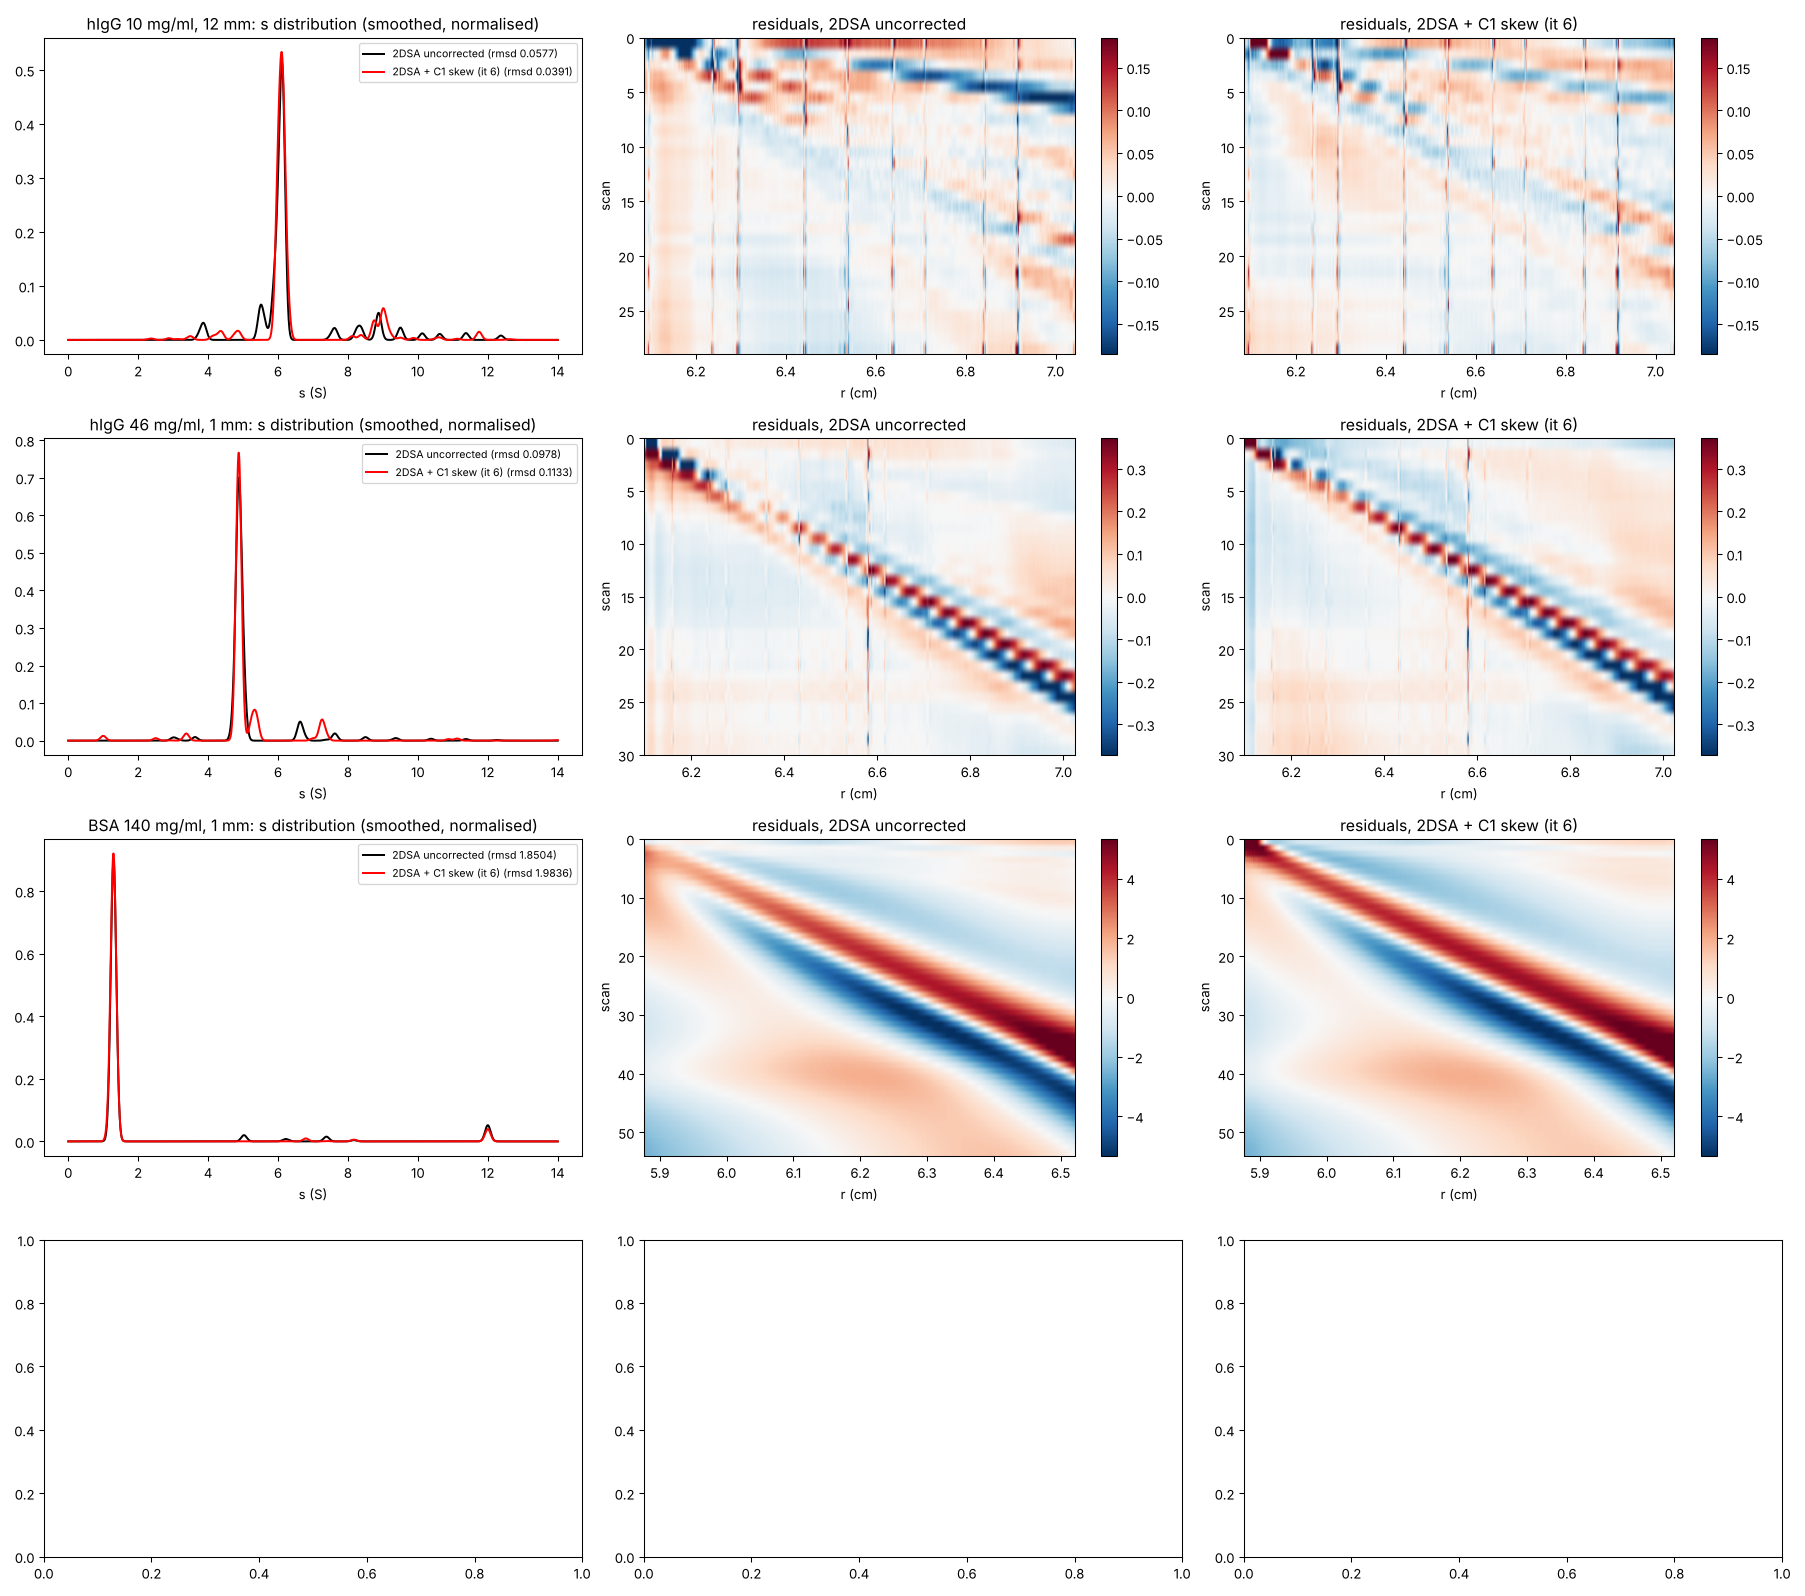
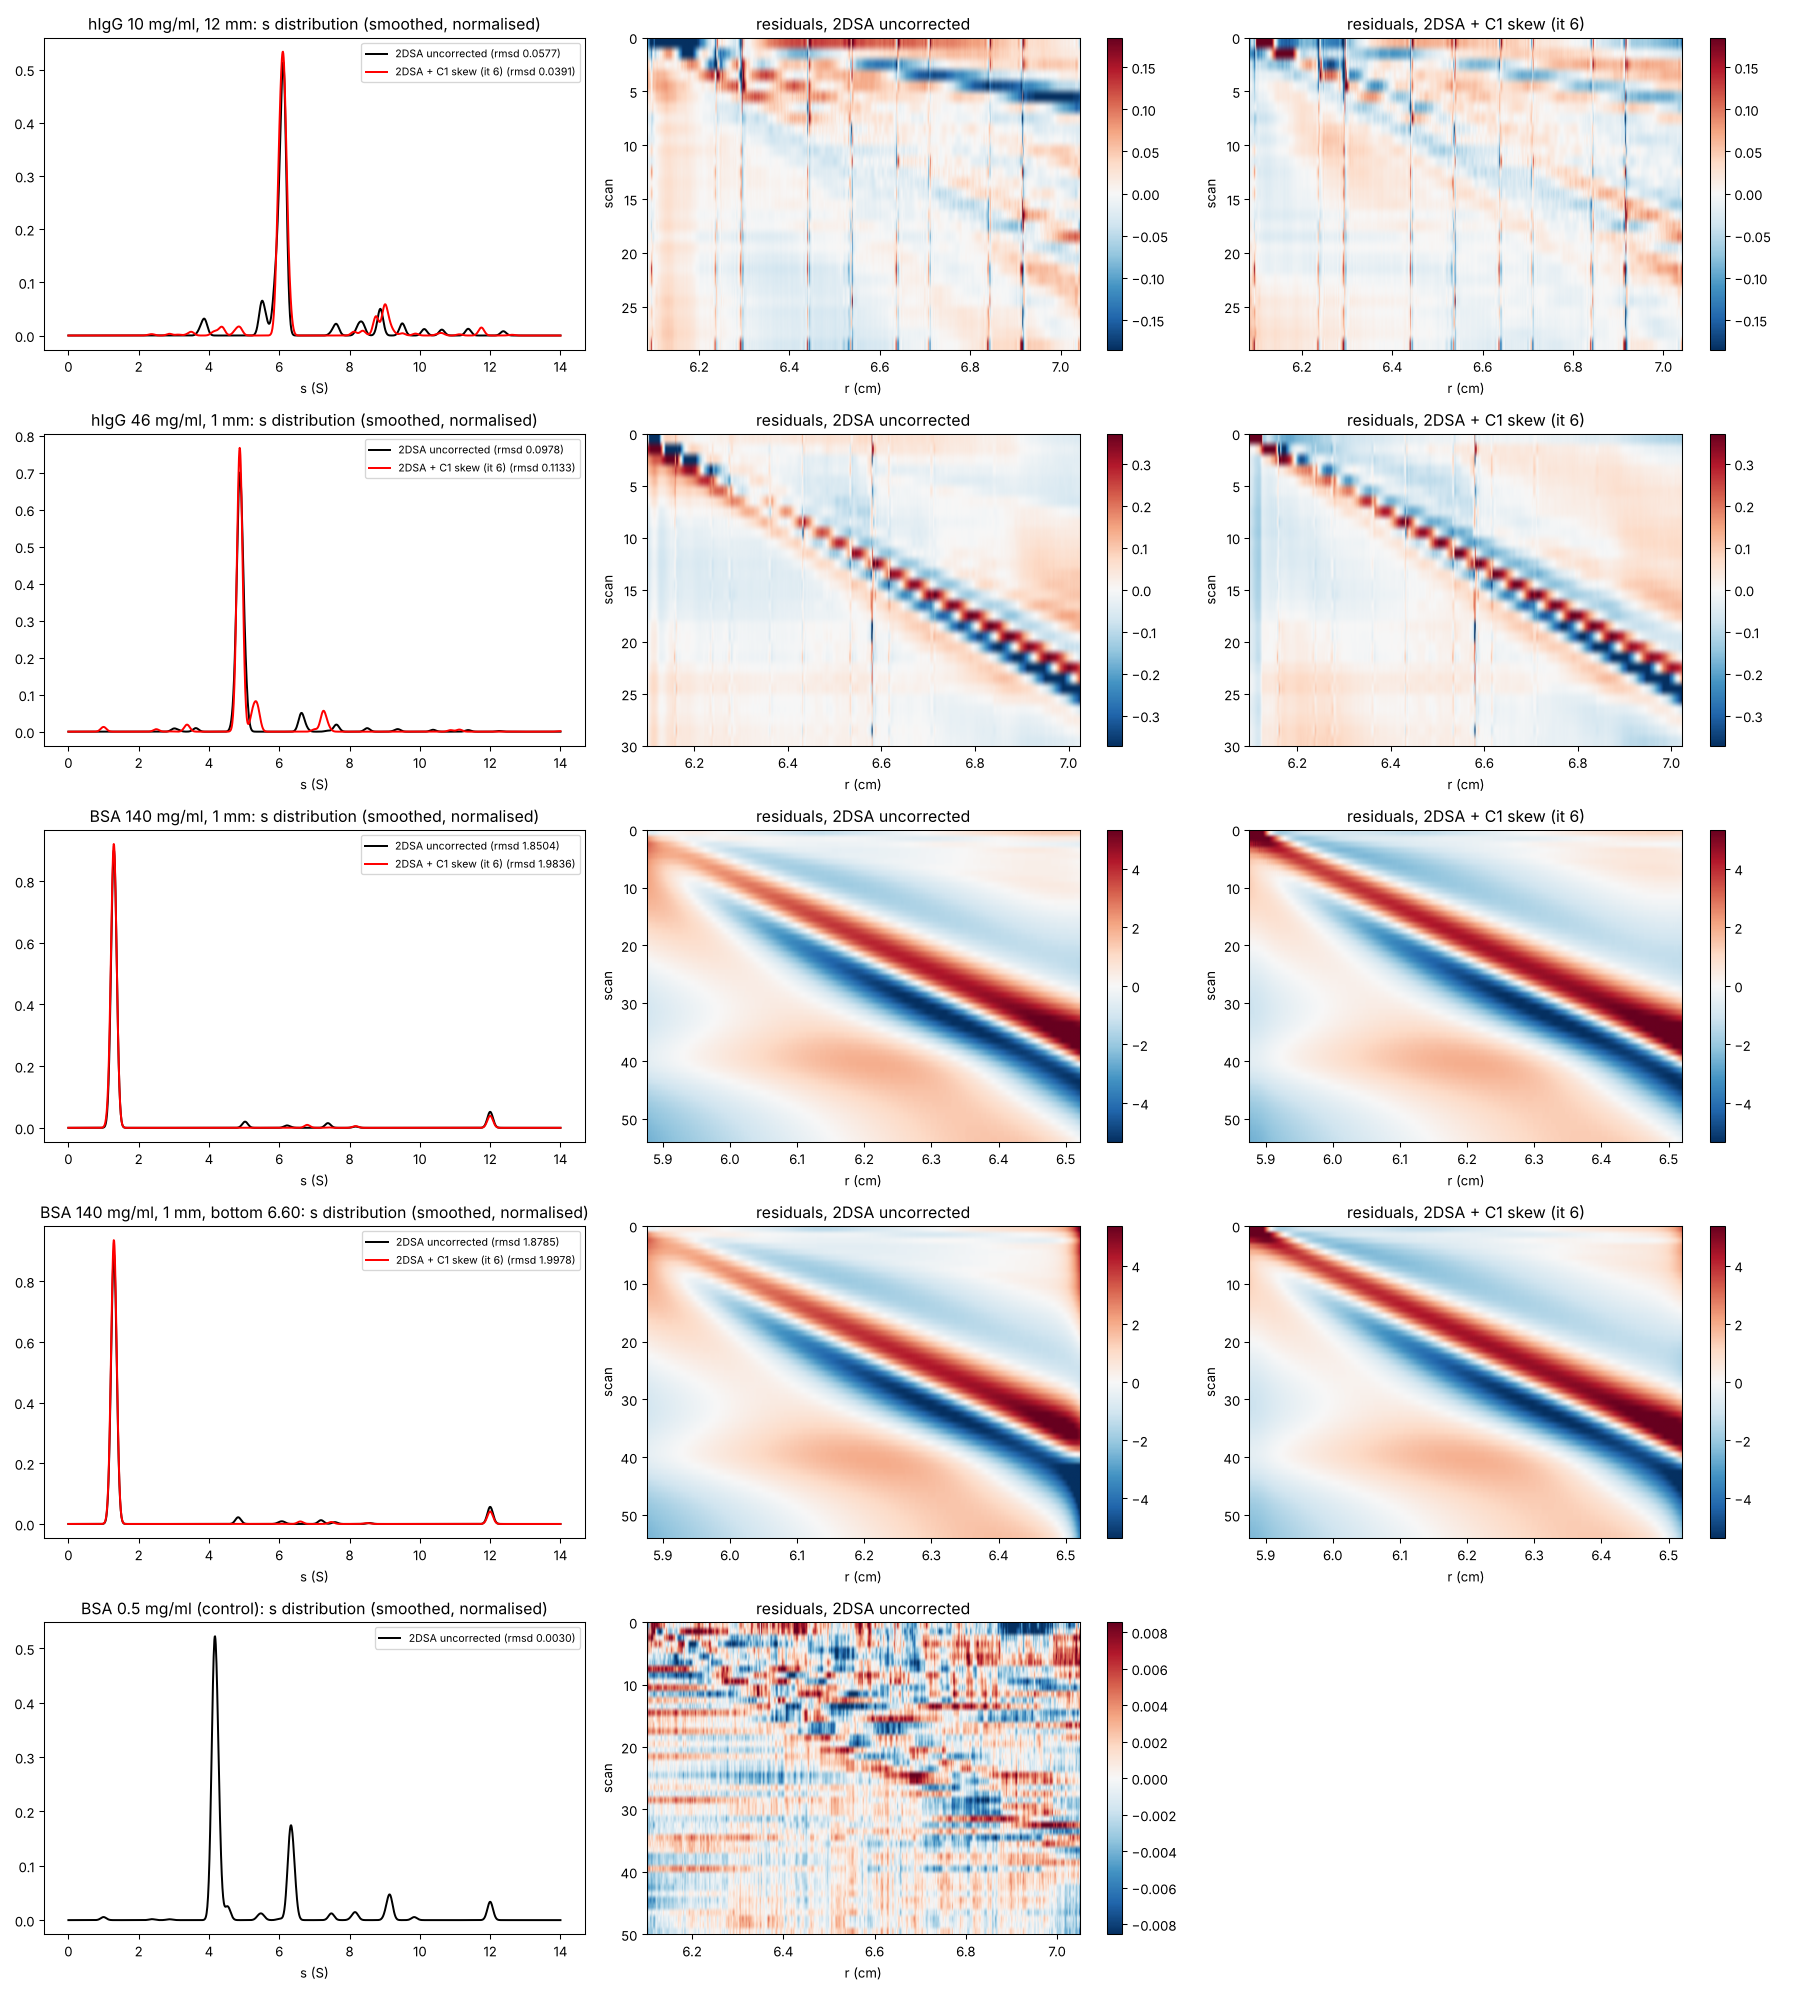
Wiener skew study: paper-data comparison results and README section
Claude-Session: https://claude.ai/code/session_01MvSEDQp35nfkxgdGyo4zjw

diff --git a/wiener_study/src/analyze_real.py b/wiener_study/src/analyze_real.py
@@ -16,6 +16,8 @@ SETS = {
                       paper="c_HS(s0): monomer 6.73 S, 71.1 %; dimer 9.4 S, 16.5 %"),
     "BSA140_1mm": dict(win=[("monomer", 2.5, 5.2), ("dimer", 5.2, 7.6)], title="BSA 140 mg/ml, 1 mm",
                        paper="c_HS(s0): monomer 3.9 S; dimer 22 %; rmsd 0.175 fringe (k_S,red 0.66)"),
+    "BSA140_1mm_b660": dict(win=[("monomer", 2.5, 5.2), ("dimer", 5.2, 7.6)], title="BSA 140 mg/ml, 1 mm, bottom 6.60",
+                       paper="c_HS(s0): monomer 3.9 S; dimer 22 %; rmsd 0.175 fringe (k_S,red 0.66)"),
     "BSA05_dilute": dict(win=[("monomer", 2.5, 5.2), ("dimer", 5.2, 7.6)], title="BSA 0.5 mg/ml (control)",
                          paper="c(s): monomer 4.2 S; dimer 19 %; f/f0 1.43"),
 }

diff --git a/wiener_study/README.md b/wiener_study/README.md
@@ -54,3 +54,28 @@ Paper cases (Chaturvedi & Schuck, Chem. Methods 2024) simulated ideally (no conc
 - The BSA remainder of 0.028 fringe sits only in scan 1 at r < 5.95 cm, where the map folds over at the meniscus. Excluding that region gives 0.0027 fringe, equal to the no-skew fit.
 - Mean-subtracting TI noise (which is skewed in the data) adds only about 0.001 fringe; an explicit fit of skewed TI noise is not needed here.
 - Remaining limitations: κ′ was known exactly, skew was simulated without concentration dependence, and the map's fold-over region is not modelled (exclude it, or the first scan, instead).
+
+## Paper data (Chaturvedi & Schuck 2024, Harvard Dataverse) — `paper_data/`
+
+**Check of the skew operator against SEDFIT.** We applied our skew operator (κ′ = 2.69e-5 cm²/fringe) to SEDFIT's unskewed Fig. 3 simulation (`hinderedsingle`) and compared the result with SEDFIT's skewed version (`skewed`). They agree to 0.0029 fringe RMS, against a total skew effect of 0.47 fringe RMS. The largest local difference is 0.18 fringe, in scan 1 at the meniscus. So the two implementations use the same skew model.
+
+**Real data, UltraScan-type ideal 2DSA, without and with C1 correction (κ′ from paper Table 1).**
+- Settings: meniscus and fit range from the SEDFIT fit files; TI+RI noise fitted; data interpolated onto a 0.0007 cm grid.
+- Scans used: all scans for IgG; every 10th scan for BSA 140 mg/ml; every 5th scan for the BSA control.
+- Timing: the rotor acceleration was estimated from scan 1, and the resulting ω²t matches the file headers to within 0.1 %.
+- BSA control meniscus: fitted (6.077 cm).
+
+| data set | fit | RMSD (fringe) | monomer frac / s / f/f0 / MW | dimer frac / s / f/f0 / MW | paper |
+|---|---|---|---|---|---|
+| hIgG 10 mg/ml, 12 mm | 2DSA | 0.0577 | 0.785 / 6.07 / 1.93 / 199 | 0.132 / 9.09 / 3.81 / 948 | c_HS(s₀): 6.44 S 74.1 %; 9.3 S 15.8 %; SEDFIT rmsd 0.041 (ScanRms.dat) |
+| | 2DSA + C1 | 0.0391 | 0.759 / 6.10 / 1.88 / 183 | 0.141 / 8.98 / 2.24 / 468 | |
+| hIgG 46 mg/ml, 1 mm | 2DSA | 0.0978 | main peak at 4.8 S (apparent) | – | 6.73 S 71.1 %; 9.4 S 16.5 % |
+| | 2DSA + C1 | 0.1133 | – | – | |
+| BSA 140 mg/ml, 1 mm | 2DSA | 1.85 (1.88 with bottom 6.60) | main peak at 1.3 S (apparent) | – | 3.9 S; dimer 22 %; rmsd 0.175 |
+| | 2DSA + C1 | 1.98 | – | – | |
+| BSA 0.5 mg/ml (control) | 2DSA | 0.0030 | 0.647 / 4.19 / 1.48 / 73 | 0.236 / 6.34 / 1.65 / 171 | c(s): 4.2 S; dimer 19 %; f/f0 1.43 |
+
+**Interpretation.**
+- **10 mg/ml IgG, 12 mm:** the skew correction lowers the RMSD by 32 %, to the level of the paper's SEDFIT fit (0.039 vs 0.041). It also halves the spurious dimer MW (948 → 468 kDa). What remains (monomer 6.1 vs 6.44 S; dimer MW still too high) is consistent with uncorrected nonideality: k_s·c ≈ 0.1 at 10 mg/ml.
+- **46 and 140 mg/ml:** the ideal 2DSA cannot describe the self-sharpened boundaries (diagonal residual band; RMSD 0.10 and 1.9 fringe). Applying the skew correction on top of this wrong boundary model makes the RMSD worse. The skew correction can therefore be judged on these data only together with a concentration-dependent sedimentation model (e.g. the paper's hindered settling, c_HS(s₀)), which UltraScan's 2DSA does not have.
+- **BSA control:** consistent with the paper (4.19 vs 4.2 S; dimer 24 % vs 19 % within the 5.2–7.6 S window; f/f0 1.48 vs 1.43).

diff --git a/wiener_study/paper_data/summary_real.md b/wiener_study/paper_data/summary_real.md
@@ -6,3 +6,6 @@
 | hIgG 46 mg/ml, 1 mm | 2DSA + C1 skew (it 6) | 0.1133 | 125 | monomer 0.182 / 6.08 / 1.10 / 90 | dimer 0.000 / nan / nan / nan |  |
 | BSA 140 mg/ml, 1 mm | 2DSA uncorrected | 1.8504 | 0 | monomer 0.020 / 5.03 / 4.00 / 416 | dimer 0.024 / 6.97 / 2.85 / 401 | c_HS(s0): monomer 3.9 S; dimer 22 %; rmsd 0.175 fringe (k_S,red 0.66) |
 | BSA 140 mg/ml, 1 mm | 2DSA + C1 skew (it 6) | 1.9836 | 173 | monomer 0.000 / nan / nan / nan | dimer 0.011 / 6.87 / 4.00 / 665 |  |
+| BSA 140 mg/ml, 1 mm, bottom 6.60 | 2DSA uncorrected | 1.8785 | 0 | monomer 0.022 / 4.83 / 4.00 / 392 | dimer 0.029 / 6.86 / 3.16 / 471 | c_HS(s0): monomer 3.9 S; dimer 22 %; rmsd 0.175 fringe (k_S,red 0.66) |
+| BSA 140 mg/ml, 1 mm, bottom 6.60 | 2DSA + C1 skew (it 6) | 1.9978 | 172 | monomer 0.000 / nan / nan / nan | dimer 0.015 / 6.99 / 4.00 / 683 |  |
+| BSA 0.5 mg/ml (control) | 2DSA uncorrected | 0.0030 | 0 | monomer 0.647 / 4.19 / 1.48 / 73 | dimer 0.236 / 6.34 / 1.65 / 171 | c(s): monomer 4.2 S; dimer 19 %; f/f0 1.43 |
